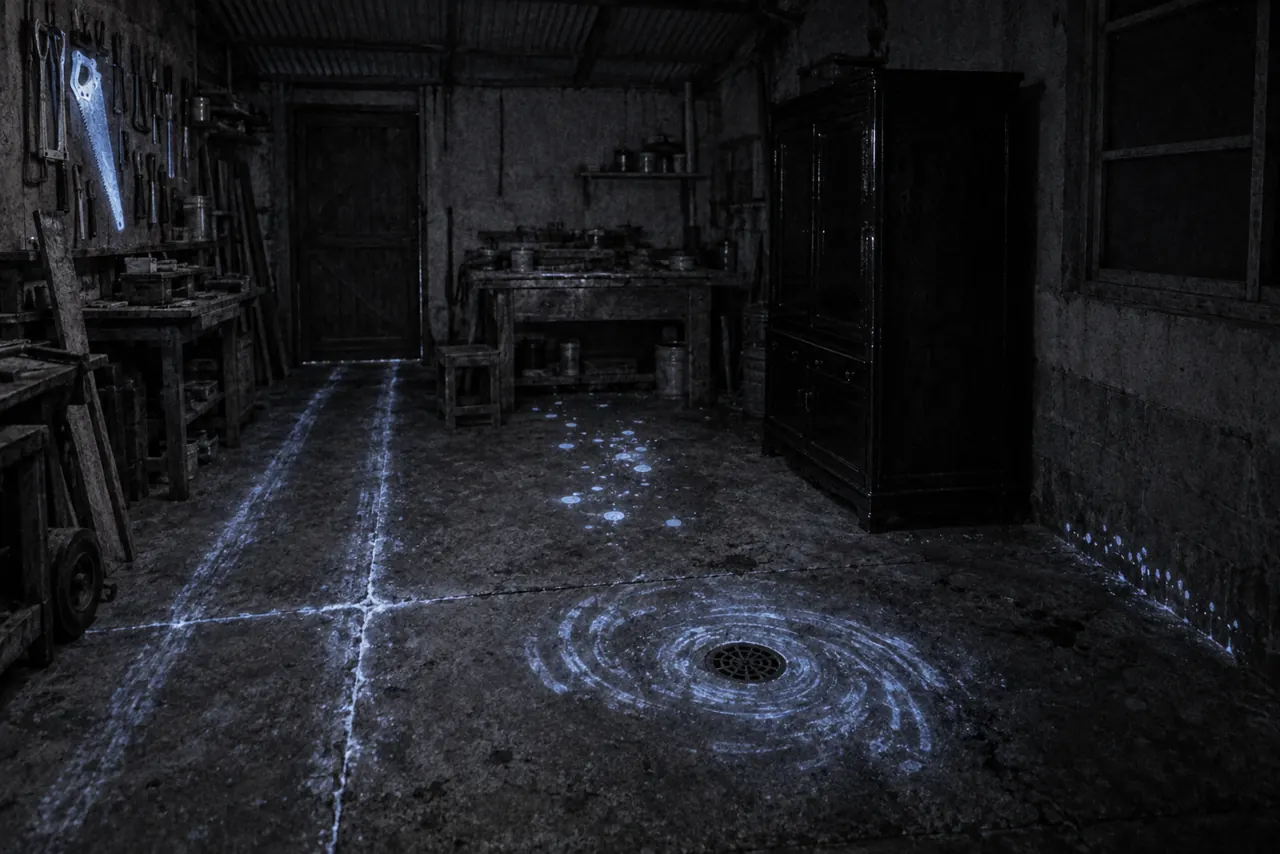
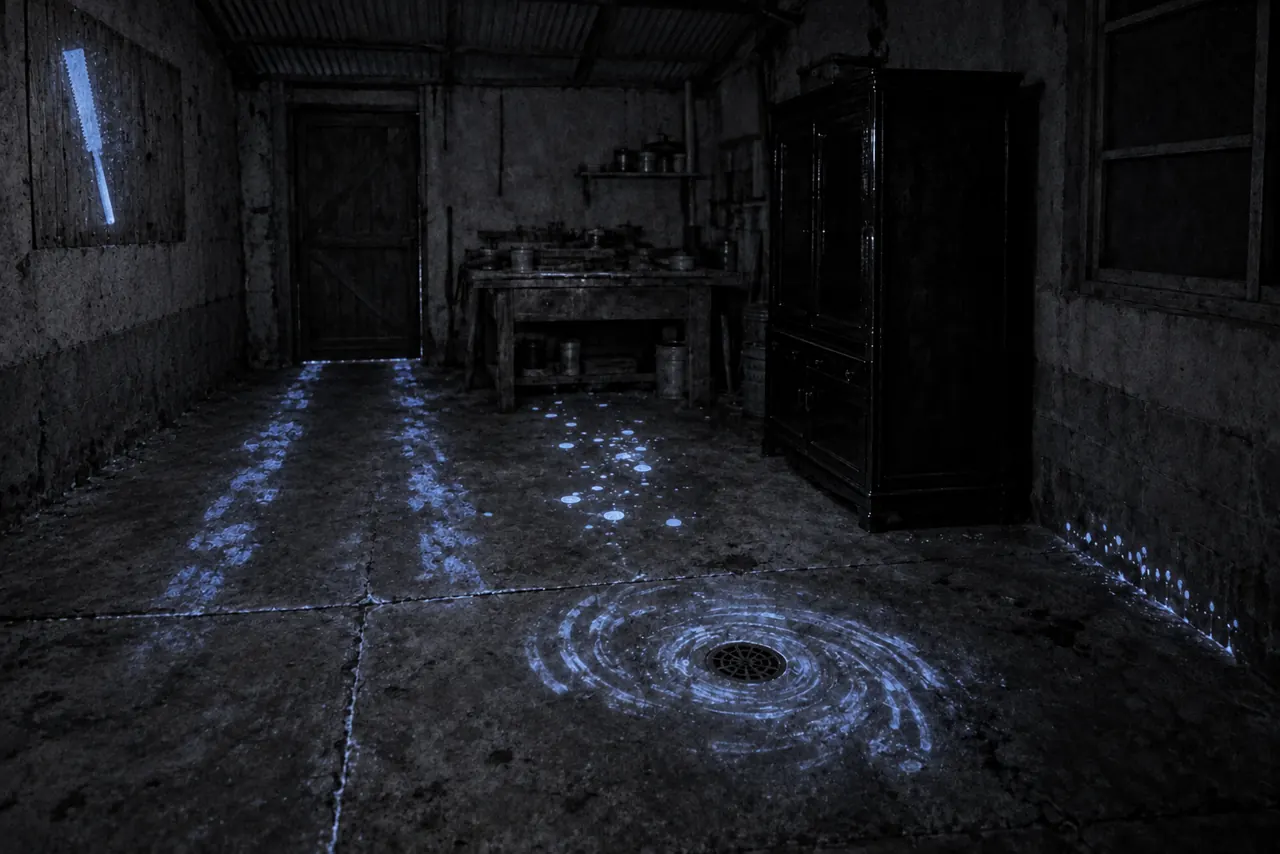
CASE 11 photos and captions now agree with the records: - Luminol photo:   - The tool board is empty, and the glowing imprint is the straight-handled double-edged saw the record describes. Before, it was a pistol-grip handsaw like the butcher's.   - The cart tracks are wide smudged treads that start

diff --git a/cases/c11-riverside-1986.js b/cases/c11-riverside-1986.js
@@ -107,28 +107,28 @@
               { id: 'sp_tag', x: 12, y: 85, r: 8, label: '자와 증거 번호표', body: ['증거 86-411-③-2. 봉투째 기록철 맨 뒤에 끼워져 있었다.'] },
             ] },
           { id: 'sc_print', title: '사진부 원판 — 청학 나전칠기 작업장', meta: '1986. 11. 24 촬영 · 은천일보 사진부 · 흑백 인화', need: ['k_cheonghak'], art: 'ph_print',
-            intro: ['신문에는 가운데만 잘려 실린 사진의 원판을 크게 뽑은 것. 흑백이라 색은 알 수 없다.'],
+            intro: ['같은 날 사진부가 찍은 다른 원판 (지면에는 실리지 않은 컷)을 크게 뽑은 것. 흑백이라 색은 알 수 없다.'],
             spots: [
               { id: 'sp_saw', x: 31, y: 7, r: 10.5, label: '공구걸이 — 톱 자리 둘', keys: ['k_hardware'], body: [{ p: '끌 걸이 오른쪽에 새 [[양날톱]] 한 자루가 가로로 걸려 있다. 손잡이 등나무 감개가 아직 하얗고 가격 딱지가 붙어 있다 — "[[대성철물]] 3,800". 바로 아래에 먼지가 덜 앉은 톱 모양 자리가 하나 더 있다.', f: 'f_newsaw' }] },
               { id: 'sp_calendar', x: 48, y: 14, r: 7, label: '벽 달력 (11월)', keys: ['k_truck'], body: ['14일 칸에 연필 동그라미. 15일 칸에 작은 글씨로 "4시 [[용달|k_truck]]". 지우개로 문지른 자국이 남았다.'] },
               { id: 'sp_cart', x: 6, y: 42, r: 7, label: '뒷문 앞 리어카', body: ['리어카 바닥에 새 판자를 댔다. 바퀴에는 진흙 한 점 없다.'] },
               { id: 'sp_shells', x: 50, y: 34, r: 6, label: '전복 껍데기 바구니', body: ['자개 원료. 얇게 갈아 낸 부스러기가 작업대 모서리에 희끗하게 반짝이며 쌓여 있다.'] },
               { id: 'sp_chest', x: 82, y: 30, r: 11, label: '만들다 만 자개장', body: ['검은 옻칠 위에 학 두 마리. 한 마리는 날개가 반쯤만 붙었다.'] },
-              { id: 'sp_sacks', x: 18, y: 72, r: 12, label: '톱밥 포대 더미', body: ['오동나무 톱밥을 담은 흰 쌀 포대 셋. 맨 위 포대의 솔기 꼬리표에 도장이 비친다 — "11.07-③".'] },
+              { id: 'sp_sacks', x: 18, y: 72, r: 12, label: '톱밥 포대 더미', body: ['오동나무 톱밥을 담은 흰 쌀 포대 셋. 앞쪽 포대의 솔기 꼬리표에 도장이 비친다 — "11.07-③".'] },
               { id: 'sp_drain', x: 48, y: 82, r: 7, label: '배수구 둘레 바닥', body: [{ p: '배수구를 가운데 두고 시멘트 바닥이 둥글게 하얗게 바래 있다. 다른 데는 옻과 먼지로 거뭇한데 그 자리만 양잿물로 박박 문지른 것처럼.', f: 'f_bleach' }] },
               { id: 'sp_bricks', x: 80, y: 68, r: 9, label: '아궁이 옆 벽돌 더미', body: ['벽돌을 반듯하게 쌓아 두었다. 맨 윗단 한쪽 귀퉁이가 네 장쯤 비었다.'] },
             ] },
           { id: 'sc_lumi', title: '재조사 암실 사진 — 루미놀 반응', meta: '1987. 3. 14 · 옛 청학 작업장 · 30초 노출 6매', need: ['!f_bleach'], art: 'ph_lumi',
             intro: ['불을 끄고 루미놀을 뿌린 뒤 30초 노출로 찍었다. 피가 스민 자리만 푸르게 떠오른다. 희미한 선은 손전등으로 덧그린 작업장 윤곽.'],
             spots: [
-              { id: 'sp_wipe', x: 57, y: 78, r: 10, label: '배수구 둘레 — 호 모양 결', body: ['배수구를 가운데 두고 둥근 결이 겹겹이 떴다. 걸레나 솔로 한 방향으로 쓸어 닦은 자국이다. 닦기 전에는 바닥 한가운데가 흥건했다.'] },
-              { id: 'sp_joint', x: 28.6, y: 71, r: 6, label: '시멘트 줄눈', body: ['줄눈을 따라 가는 선이 유난히 밝다. 틈에 스민 것은 닦아도 지워지지 않았다. 여기서 긁어 낸 시료가 감정에 갔다.'] },
-              { id: 'sp_drops', x: 50, y: 55, r: 7, label: '작업대 앞 바닥', body: ['동전만 한 둥근 점들. 가장자리가 고르다 — 1m가 안 되는 높이에서 곧게 떨어진 낙하흔.'] },
-              { id: 'sp_spatter', x: 86, y: 64, r: 7, label: '벽 아래쪽', body: ['바닥에서 30cm 높이까지 작고 길쭉한 점들이 한 방향으로 흩뿌려졌다. 바닥 가까이에서 같은 동작을 되풀이할 때 튄 비산흔.'] },
-              { id: 'sp_sawmark', x: 8, y: 12, r: 7, label: '공구걸이 판자', body: [{ p: '판자 위에 톱 모양이 통째로 떴다. 날 길이 약 27cm, 손잡이 쪽이 짙다. 피 묻은 톱을 한동안 거기 걸어 두었던 전이흔.', f: 'f_sawmark' }] },
-              { id: 'sp_cartmark', x: 14, y: 77, r: 7, label: '뒷문 앞', body: ['나란한 바퀴 자국 두 줄이 문턱까지 이어진다. 간격 약 1m — 리어카.'] },
-              { id: 'sp_cabinet', x: 72, y: 32, r: 8, label: '옻장', body: ['반응 없음. 옻과 아교만으로는 빛나지 않는다.'] },
-              { id: 'sp_window', x: 92, y: 16, r: 7, label: '창틀', body: ['반응 없음.'] },
+              { id: 'sp_wipe', x: 58, y: 77, r: 10.5, label: '배수구 둘레 — 호 모양 결', body: ['배수구를 가운데 두고 둥근 결이 겹겹이 떴다. 걸레나 솔로 한 방향으로 쓸어 닦은 자국이다. 닦기 전에는 바닥 한가운데가 흥건했다.'] },
+              { id: 'sp_joint', x: 27.5, y: 82, r: 6, label: '시멘트 줄눈', body: ['줄눈을 따라 가는 선이 유난히 밝다. 틈에 스민 것은 닦아도 지워지지 않았다. 여기서 긁어 낸 시료가 감정에 갔다.'] },
+              { id: 'sp_drops', x: 47.5, y: 54, r: 7, label: '작업대 앞 바닥', body: ['동전만 한 둥근 점들. 가장자리가 고르다 — 1m가 안 되는 높이에서 곧게 떨어진 낙하흔.'] },
+              { id: 'sp_spatter', x: 89.5, y: 67.5, r: 7, label: '벽 아래쪽', body: ['바닥에서 30cm 높이까지 작고 길쭉한 점들이 한 방향으로 흩뿌려졌다. 바닥 가까이에서 같은 동작을 되풀이할 때 튄 비산흔.'] },
+              { id: 'sp_sawmark', x: 6.8, y: 16, r: 8, label: '공구걸이 판자', body: [{ p: '판자 위에 톱 모양이 통째로 떴다. 날 길이 약 27cm, 손잡이 쪽이 짙다. 피 묻은 톱을 한동안 거기 걸어 두었던 전이흔.', f: 'f_sawmark' }] },
+              { id: 'sp_cartmark', x: 26, y: 56, r: 9, label: '뒷문 앞', body: ['나란한 바퀴 자국 두 줄이 문턱까지 이어진다. 간격 약 1m — 리어카.'] },
+              { id: 'sp_cabinet', x: 70, y: 34.5, r: 9, label: '옻장', body: ['반응 없음. 옻과 아교만으로는 빛나지 않는다.'] },
+              { id: 'sp_window', x: 92.5, y: 18, r: 7, label: '창틀', body: ['반응 없음.'] },
             ] },
         ] },
     ],
@@ -228,7 +228,7 @@
         '11/29 우 석방. 증거 불충분.',
       ] },
       d_woo_check: { src: 'rec', find: ['k_useong'], blood: 'heavy', title: '검증 조서 — 우성정육점', kicker: '은천서 86-강-411 · 14', meta: '1986년 11월 18일 19:30 ~ 22:10 · 중앙시장 12호 · 입회 우만복의 처', body: [
-        { img: 'butcher_floor', cap: '검증 뒤 가게 안 — 톱밥 깔린 바닥, 도마, 빈 갈고리.' },
+        { img: 'butcher_floor', cap: '검증 중 가게 안 — 압수 꼬리표를 단 뼈톱, 톱밥 깔린 바닥, 도마, 빈 갈고리.' },
         '가게 문을 닫고 불을 끈 뒤 바닥·도마·배수구·벽에 [[루미놀]] 용액을 뿌린바, 바닥 거의 전면과 도마 둘레, 배수구에서 강한 푸른빛 반응이 나타남.',
         { img: 'butcher_lumi', cap: '암실 사진 — 불을 끈 가게 바닥 (30초 노출). 바닥 거의 전면이 푸르게 떴다.' },
         { list: ['바닥: 반응 전면 · 톱밥 아래까지 스밈', '도마·칼꽂이: 강한 반응', '배수구: 강한 반응', '냉장고 문: 손 닿는 높이에 번진 반응'] },
@@ -260,7 +260,7 @@
         '넓적다리뼈·위팔뼈 절단면의 [[톱 자국]]은 간격 2.5~3mm, 켠 자리 폭 1.6mm 안팎으로 날어김이 넓다. 자국이 활처럼 휘며 한쪽으로 당겨진 결을 보인다.',
         '관절을 분리한 흔적은 없다. 뼈 하나에 톱을 새로 댄 시작 자국이 서너 개씩 겹친다.',
         { h: '2. 포대 속 톱밥' },
-        { img: 'nfs_nacre', cap: '포대 속 톱밥 (실체현미경, 20배).' },
+        { img: 'nfs_nacre', cap: '포대 속 톱밥 (실체현미경 아래).' },
         { p: '네 포대의 톱밥은 모두 활엽수, 오동나무류다. 미송·낙엽송 같은 침엽수 톱밥은 섞여 있지 않다. 톱밥 사이에 무지갯빛으로 반짝이는 얇은 박편이 많다 — 전복·조개 껍데기의 [[진주층]] 박편으로, 갈아 낸 가공 부스러기로 보인다. 옻 성분이 조금 검출된다.', f: 'f_nacre' },
         { h: '3. 포대' },
         '폴리프로필렌 직조 20kg 쌀 포대 4장. 겉 인쇄는 물과 마찰로 거의 벗겨졌다. 두 장의 안쪽 솔기 꼬리표에서 [[도정 스탬프]]를 판독함 — "11.07-③". 정미소의 도정 일자와 도정기 번호로 보인다.',
@@ -344,7 +344,7 @@
         { sign: '진술인 양미숙 (무인)' },
       ] },
       d_ledger: { src: 'rec', find: ['k_ledger'], skin: 'ledger', title: '대원상사 원장 (11월분 사본)', kicker: '은천서 86-강-411 · 참고 3', meta: '1986년 11월 18일 사본 · 원본은 대원상사 금고', body: [
-        { img: 'ledger_page', cap: '원장 펼친 면. 이름 칸은 비어 있다.' },
+        { img: 'ledger_page', cap: '원장 펼친 면. 이름 없이 번호와 숫자만 적혀 있다.' },
         { rows: [
           ['시-14', '정육', '80만', '월 7부', '이자 석 달 밀림 · "독촉"', '편'],
           ['시-22', '포목', '30만', '일수 60일', '정상', '편'],
@@ -740,7 +740,7 @@
         svg: `<svg viewBox="0 0 200 150"><rect width="200" height="150" fill="#c9c6bb"/><path d="M20 30 h70 l14 12 v80 h-98 v-80z" fill="#28324a"/><path d="M40 30 l12 20 l12 -20" fill="none" stroke="#1a2030" stroke-width="3"/><path d="M26 34 q4 30 2 58 l8 2 q2 -30 -2 -60z" fill="${BL}" opacity=".8"/><path d="M40 100 q20 6 40 0 l2 14 q-22 6 -44 0z" fill="${BL}" opacity=".45"/><rect x="118" y="36" width="30" height="20" fill="#d9d2bc" stroke="#8a8272"/><circle cx="130" cy="78" r="7" fill="#b89a52"/><circle cx="148" cy="80" r="7" fill="#b89a52"/><circle cx="168" cy="72" r="5" fill="#9a9a92"/><circle cx="178" cy="84" r="5" fill="#9a9a92"/><rect x="118" y="100" width="40" height="14" fill="#efece2"/><rect x="118" y="126" width="64" height="6" fill="#c9b98d"/></svg>`,
         prompt: 'Top-down black-and-white evidence photograph under flat flash: a wet navy quilted vinyl jacket laid face-down on grey paper so its back panel faces the camera (no zipper visible), dark dried stains running down its left collar and shoulder and a wide smeared stain across the lower back with pale sawdust and tiny glittering flecks of mother-of-pearl dust stuck in it, beside it in a neat row a small soggy paper matchbox, two brass bus tokens, a few coins and a folded handkerchief, a numbered evidence card and a ruler, grain.',
         must: '잠바 등판이 위로 (지퍼 안 보이게). 왼쪽 깃·어깨의 흐름흔, 등판 아래의 넓은 문질린 혈흔에 흰 톱밥과 반짝이는 가루' },
-      butcher_floor: { use: '우성정육점 검증 뒤 가게 안 — 톱밥 바닥과 도마', ratio: '4:3', sensitive: true,
+      butcher_floor: { use: '우성정육점 검증 중 가게 안 — 압수 꼬리표를 단 뼈톱, 톱밥 바닥과 도마', ratio: '4:3', sensitive: true,
         svg: `<svg viewBox="0 0 200 150"><rect width="200" height="150" fill="#3e3c37"/><rect y="96" width="200" height="54" fill="#8f7c5c"/><g fill="#a48f69">${A(40, i => `<circle cx="${(i * 37) % 200}" cy="${100 + (i * 13) % 48}" r="1.4"/>`)}</g><rect x="20" y="24" width="160" height="4" fill="#777"/><g stroke="#999" stroke-width="2" fill="none">${A(7, i => `<path d="M${34 + i * 20} 28 v10 q0 6 5 6"/>`)}</g><rect x="80" y="84" width="48" height="30" fill="#6b5236"/><ellipse cx="104" cy="84" rx="24" ry="6" fill="#7b6040"/><path d="M92 82 q8 -3 14 2 q6 4 -2 6 q-10 0 -12 -8z" fill="${BL}" opacity=".85"/><path d="M150 40 h30 v8 h-30z" fill="#bdbdb6"/><rect x="176" y="38" width="10" height="12" fill="#5a4630"/><path d="M8 110 q12 -10 30 -4 q6 12 -8 16 q-16 2 -22 -12z" fill="#e2ddcf"/></svg>`,
         prompt: 'Night flash photograph inside a tiny 1980s Korean market butcher shop after a police search, no people: a sawdust-covered cement floor, a scarred round wooden chopping block with dark dried stains, a row of empty steel meat hooks on a rail, a hand bone saw hanging on the tiled wall, a pile of empty white rice sacks in the corner, small paper evidence tags on string, harsh flash, grain.' },
       gauge: { use: '은천 수위관측소 앞 수위표와 유속 측정', ratio: '4:3',

diff --git a/i18n/ru/c11.js b/i18n/ru/c11.js
@@ -114,7 +114,7 @@ MG.I18N.put("ru", "c11", {
 "29svwdzf7sw": "Улика 86-411-③-2. Лежала в конверте в самом конце подшивки.",
 "yoxv24mjs1": "Негатив фотоотдела — мастерская «Чхонхак»",
 "25i2ohhj3cv": "Снято 24.11.1986 · фотоотдел «Ынчхон ильбо» · чёрно-белый отпечаток",
-"y29r5l4z8y": "Крупный отпечаток с негатива: в газете снимок напечатали обрезанным, одну середину. Он чёрно-белый, цвета не разобрать.",
+"1irz9wqmmv4": "Крупный отпечаток с другого негатива, снятого фотоотделом в тот же день (кадр в газету не попал). Он чёрно-белый, цвета не разобрать.",
 "eylhvinewu": "Доска для инструментов — два места для пил",
 "1wzeni3wddi": "Справа от стамесок поперёк висит новая [[двусторонняя пила|k_saw]]. Ротанговая обмотка на рукояти ещё белая, приклеен ценник: «[[Тэсон|k_hardware]] 3 800». Чуть ниже — ещё одно место в форме пилы, где пыли осело меньше.",
 "1eg7ge9bnp5": "Календарь на стене (ноябрь)",
@@ -126,7 +126,7 @@ MG.I18N.put("ru", "c11", {
 "aioo23rdo9": "Недоделанный перламутровый шкаф",
 "ig4dbwu1x8": "На чёрном лаке — два журавля. У одного крыло выложено только наполовину.",
 "19bsf9aq1j4": "Груда мешков с опилками",
-"td9noywbi6": "Три белых рисовых мешка с опилками павловнии. На ярлыке в шве верхнего мешка просвечивает штамп: «11.07-③».",
+"qgxqg4jn9w": "Три белых рисовых мешка с опилками павловнии. На ярлыке в шве переднего мешка просвечивает штамп: «11.07-③».",
 "1911d4zj1v0": "Пол вокруг стока",
 "1iyuooxdxx0": "Вокруг стока цементный пол выцвел белым кругом. Везде он тёмный от лака и пыли, а это место будто яростно оттирали щёлоком.",
 "2flxafsqbt2": "Кирпичи у топки",
@@ -310,7 +310,7 @@ MG.I18N.put("ru", "c11", {
 "1h5fqxyt2m7": "Протокол осмотра — мясная лавка «Усон»",
 "1o5n0dvbyrb": "Участок Ынчхон, 86-ТП-411 · 14",
 "1jlhxthdltn": "18 ноября 1986 г., 19:30–22:10 · Центральный рынок, место № 12 · в присутствии жены У Манбока",
-"1aio73lxy5m": "Лавка после осмотра: пол в опилках, колода, пустые крюки.",
+"2elorejt3cy": "Лавка во время осмотра: пила для костей с биркой изъятия, пол в опилках, колода, пустые крюки.",
 "18uzee5n74w": "Закрыв лавку и погасив свет, раствор [[люминола|k_luminol]] распылили на пол, колоду, сток и стены; почти по всему полу, вокруг колоды и в стоке появилось сильное голубое свечение.",
 "29rjtpyj1s7": "Снимок в темноте — пол лавки при выключенном свете (выдержка 30 с). Голубым светится почти весь пол.",
 "2060o7dp01o": "Пол: реакция по всей площади · впиталось и под опилки",
@@ -362,7 +362,7 @@ MG.I18N.put("ru", "c11", {
 "bjvk6jl74b": "[[Следы пилы|k_cutmark]] на срезах бедренных и плечевых костей: шаг 2,5–3 мм, ширина пропила около 1,6 мм — развод зубьев широкий. Следы изогнуты дугой, бороздки стянуты в одну сторону.",
 "2fk2bkntkhb": "Следов разъединения по суставам нет. На каждой кости — по три-четыре наложившихся начальных запила.",
 "1i5lkb5oph2": "2. Опилки из мешков",
-"i6bk8uv0pl": "Опилки из мешков (стереомикроскоп, ×20).",
+"16d9ih62x91": "Опилки из мешков (под стереомикроскопом).",
 "1jfm2f3ls48": "Опилки во всех четырёх мешках — лиственной породы, павловния. Опилок хвойных пород, таких как орегонская сосна или лиственница, нет. Среди опилок много тонких чешуек с радужным блеском — это чешуйки [[перламутрового слоя|k_najeon]] раковин морского ушка и других моллюсков, по-видимому отходы шлифовки. Обнаружено небольшое количество лака.",
 "1mzhyv11jfm": "3. Мешки",
 "1llopxkcau2": "Тканые полипропиленовые мешки для риса на 20 кг — 4 шт. Надписи снаружи почти стёрты водой и трением. На ярлыках во внутренних швах двух мешков прочитан [[штамп мельницы|k_stamp]] — «11.07-③». По-видимому, дата шлифовки (месяц.число) на рисовой мельнице и номер машины.",
@@ -485,7 +485,7 @@ MG.I18N.put("ru", "c11", {
 "1fhsgd6strj": "Главная книга «Тэвон» (копия за ноябрь)",
 "19yntoubkn4": "Участок Ынчхон, 86-ТП-411 · прил. 3",
 "23svkone40": "Копия от 18 ноября 1986 г. · оригинал — в сейфе конторы «Тэвон»",
-"22zfmx0hozk": "Разворот главной книги. Графа для имён пустая.",
+"1eatyacqoz5": "Разворот главной книги. Ни одного имени — только номера и цифры.",
 "1otfomuoqyo": "Рын-14",
 "nklspxyv1j": "мясо",
 "119sl5kzom4": "800 тыс.",
@@ -958,7 +958,7 @@ MG.I18N.put("ru", "c11", {
 "k7x5hfidxx": "Снимок криминалистов — четвёртый мешок с кирпичами",
 "1ibv7jv37ls": "Секционная Ынчхонской больницы — останки под белой простынёй",
 "qbc6x5fix7": "Фото улик — куртка и содержимое карманов",
-"196nvbe7y1w": "Мясная лавка «Усон» после осмотра — пол в опилках и колода",
+"kzryj7qbe8": "Мясная лавка «Усон» во время осмотра — пила для костей с биркой изъятия, пол в опилках и колода",
 "1robn234k39": "Водомерная рейка у гидропоста Ынчхон и замер скорости течения",
 "7us0ukku8l": "Разворот главной книги «Тэвон» (почерк размыт)",
 "17tp9nhttar": "Разворот главной книги «Тэвон»",

diff --git a/i18n/de/c11.js b/i18n/de/c11.js
@@ -114,7 +114,7 @@ MG.I18N.put("de", "c11", {
 "29svwdzf7sw": "Beweisstück 86-411-③-2. Lag samt Umschlag ganz hinten in der Akte.",
 "yoxv24mjs1": "Originalnegativ der Fotoredaktion — Perlmuttwerkstatt Cheonghak",
 "25i2ohhj3cv": "Aufgenommen am 24. November 1986 · Fotoredaktion der Euncheon Ilbo · Schwarzweißabzug",
-"y29r5l4z8y": "Großer Abzug vom Negativ eines Fotos, das in der Zeitung nur als Ausschnitt aus der Mitte erschien. Schwarzweiß, Farben sind nicht zu erkennen.",
+"1irz9wqmmv4": "Großer Abzug von einem anderen Negativ, das die Fotoredaktion am selben Tag aufnahm (ein Bild, das nie gedruckt wurde). Schwarzweiß, Farben sind nicht zu erkennen.",
 "eylhvinewu": "Werkzeugbrett — zwei Plätze für Sägen",
 "1wzeni3wddi": "Rechts neben den Stemmeisen hängt quer eine neue [[Zugsäge|k_saw]]. Die Rattanwicklung am Griff ist noch weiß, ein Preisschild klebt daran — „[[Eisenwaren Daeseong|k_hardware]] 3.800“. Direkt darunter noch ein sägenförmiger Umriss, auf dem weniger Staub liegt.",
 "1eg7ge9bnp5": "Wandkalender (November)",
@@ -126,7 +126,7 @@ MG.I18N.put("de", "c11", {
 "aioo23rdo9": "Unfertiger Perlmuttschrank",
 "ig4dbwu1x8": "Auf schwarzem Lack zwei Kraniche. Bei einem ist der Flügel erst zur Hälfte eingelegt.",
 "19bsf9aq1j4": "Stapel Sägemehlsäcke",
-"td9noywbi6": "Drei weiße Reissäcke mit Paulownia-Sägemehl. Am Nahtetikett des obersten schimmert ein Stempel durch — „11.07-③“.",
+"qgxqg4jn9w": "Drei weiße Reissäcke mit Paulownia-Sägemehl. Am Nahtetikett des vorderen schimmert ein Stempel durch — „11.07-③“.",
 "1911d4zj1v0": "Boden um den Abfluss",
 "1iyuooxdxx0": "Rund um den Abfluss ist der Zementboden kreisförmig weiß ausgebleicht. Überall sonst ist er von Lack und Staub dunkel, nur diese Stelle sieht aus, als hätte man sie mit Lauge geschrubbt.",
 "2flxafsqbt2": "Ziegelstapel neben dem Feuerloch",
@@ -310,7 +310,7 @@ MG.I18N.put("de", "c11", {
 "1h5fqxyt2m7": "Durchsuchungsprotokoll — Metzgerei Useong",
 "1o5n0dvbyrb": "Revier Euncheon 86-Gewalt-411 · 14",
 "1jlhxthdltn": "18. November 1986, 19:30–22:10 · Zentralmarkt Nr. 12 · anwesend: Ehefrau von Woo Man-bok",
-"1aio73lxy5m": "Der Laden nach der Durchsuchung — Sägemehl auf dem Boden, Hackklotz, leere Fleischhaken.",
+"2elorejt3cy": "Der Laden während der Durchsuchung — die Knochensäge mit Beschlagnahmeschild, Sägemehl auf dem Boden, Hackklotz, leere Fleischhaken.",
 "18uzee5n74w": "Nachdem der Laden geschlossen und das Licht gelöscht war, wurde [[Luminol|k_luminol]]-Lösung auf Boden, Hackklotz, Abfluss und Wände gesprüht; auf fast dem ganzen Boden, rund um den Hackklotz und im Abfluss zeigte sich eine starke blaue Reaktion.",
 "29rjtpyj1s7": "Dunkelkammerfoto — der Ladenboden bei gelöschtem Licht (30 Sekunden belichtet). Fast der ganze Boden leuchtet blau.",
 "2060o7dp01o": "Boden: Reaktion auf ganzer Fläche · bis unter das Sägemehl eingezogen",
@@ -362,7 +362,7 @@ MG.I18N.put("de", "c11", {
 "bjvk6jl74b": "Die [[Sägespuren|k_cutmark]] an den Schnittflächen von Oberschenkel- und Oberarmknochen weisen einen Abstand von 2,5–3 mm und eine Schnittfugenbreite um 1,6 mm auf; die Schränkung ist weit. Die Spuren biegen sich bogenförmig und zeigen einen zu einer Seite gezogenen Verlauf.",
 "2fk2bkntkhb": "Spuren einer Gelenkauslösung finden sich nicht. An jedem Knochen überlagern sich drei bis vier Ansatzspuren, an denen die Säge neu angesetzt wurde.",
 "1i5lkb5oph2": "2. Sägemehl in den Säcken",
-"i6bk8uv0pl": "Sägemehl aus den Säcken (Stereomikroskop, 20-fach).",
+"16d9ih62x91": "Sägemehl aus den Säcken (unter dem Stereomikroskop).",
 "1jfm2f3ls48": "Das Sägemehl in allen vier Säcken stammt von Laubholz, und zwar von Paulownia. Nadelholzsägemehl wie Douglasie oder Lärche ist nicht beigemischt. Zwischen dem Sägemehl zahlreiche dünne, regenbogenfarben schimmernde Plättchen — Plättchen aus der [[Perlmuttschicht|k_najeon]] von Abalone- und Muschelschalen, offenbar Schleifabfall aus der Verarbeitung. Geringe Mengen von Lackbestandteilen nachgewiesen.",
 "1mzhyv11jfm": "3. Säcke",
 "1llopxkcau2": "4 gewebte Reissäcke à 20 kg aus Polypropylen. Der Aufdruck ist durch Wasser und Reibung fast ganz abgerieben. Auf den inneren Nahtetiketten von zweien wurde der [[Mühlenstempel|k_stamp]] gelesen — „11.07-③“. Vermutlich Mahldatum (Monat.Tag) und Nummer der Schälmaschine einer Reismühle.",
@@ -485,7 +485,7 @@ MG.I18N.put("de", "c11", {
 "1fhsgd6strj": "Daewon-Hauptbuch (Abschrift, November)",
 "19yntoubkn4": "Revier Euncheon 86-Gewalt-411 · Anlage 3",
 "23svkone40": "Abschrift vom 18. November 1986 · Original im Tresor von Daewon Handel",
-"22zfmx0hozk": "Aufgeschlagene Seite des Hauptbuchs. Die Namensspalte ist leer.",
+"1eatyacqoz5": "Aufgeschlagene Seite des Hauptbuchs. Keine Namen, nur Nummern und Zahlen.",
 "1otfomuoqyo": "Z-14",
 "nklspxyv1j": "Fleisch",
 "119sl5kzom4": "800.000",
@@ -958,7 +958,7 @@ MG.I18N.put("de", "c11", {
 "k7x5hfidxx": "Foto der Spurensicherung — der vierte Sack mit den Ziegeln",
 "1ibv7jv37ls": "Obduktionssaal des Klinikums Euncheon — die geborgene Leiche unter weißen Tüchern",
 "qbc6x5fix7": "Asservatenfoto — die Jacke und der Inhalt ihrer Taschen",
-"196nvbe7y1w": "Metzgerei Useong nach der Durchsuchung — Sägemehlboden und Hackklotz",
+"kzryj7qbe8": "Metzgerei Useong während der Durchsuchung — Knochensäge mit Beschlagnahmeschild, Sägemehlboden und Hackklotz",
 "1robn234k39": "Pegellatte vor der Pegelstation Euncheon und Messung der Fließgeschwindigkeit",
 "7us0ukku8l": "Aufgeschlagene Seite des Daewon-Hauptbuchs (Schrift unscharf)",
 "17tp9nhttar": "Aufgeschlagene Seite des Daewon-Hauptbuchs",

diff --git a/i18n/ja/c11.js b/i18n/ja/c11.js
@@ -114,7 +114,7 @@ MG.I18N.put("ja", "c11", {
 "29svwdzf7sw": "証拠 86-411-③-2。封筒ごと記録綴りの一番後ろに挟まっていた。",
 "yoxv24mjs1": "写真部の原板 — 青鶴螺鈿漆器の作業場",
 "25i2ohhj3cv": "1986. 11. 24 撮影 · ウンチョン日報写真部 · 白黒焼き付け",
-"y29r5l4z8y": "新聞には真ん中だけ切り取って載った写真の原板を、大きく焼いたもの。白黒なので色は分からない。",
+"1irz9wqmmv4": "同じ日に写真部が撮った別の原板（紙面には載らなかったカット）を、大きく焼いたもの。白黒なので色は分からない。",
 "eylhvinewu": "工具掛け — 鋸の場所が二つ",
 "1wzeni3wddi": "鑿掛けの右に、新しい[[両刃鋸|k_saw]]が一本、横向きに掛かっている。柄の籐巻きはまだ白く、値札がついている —「[[大成金物|k_hardware]] 3,800」。そのすぐ下に、埃があまり積もっていない鋸の形の跡がもう一つある。",
 "1eg7ge9bnp5": "壁のカレンダー（11月）",
@@ -126,7 +126,7 @@ MG.I18N.put("ja", "c11", {
 "aioo23rdo9": "作りかけの螺鈿箪笥",
 "ig4dbwu1x8": "黒い漆の上に鶴が二羽。一羽は翼が半分しか貼られていない。",
 "19bsf9aq1j4": "おがくずの袋の山",
-"td9noywbi6": "桐のおがくずを詰めた白い米袋が三つ。一番上の袋の縫い目の札に判が透けて見える —「11.07-③」。",
+"qgxqg4jn9w": "桐のおがくずを詰めた白い米袋が三つ。手前の袋の縫い目の札に判が透けて見える —「11.07-③」。",
 "1911d4zj1v0": "排水口のまわりの床",
 "1iyuooxdxx0": "排水口を中心に、セメントの床が丸く白く褪せている。ほかは漆と埃で黒ずんでいるのに、そこだけ苛性ソーダでごしごし擦ったように。",
 "2flxafsqbt2": "かまど脇のレンガの山",
@@ -310,7 +310,7 @@ MG.I18N.put("ja", "c11", {
 "1h5fqxyt2m7": "検証調書 — ウソン精肉店",
 "1o5n0dvbyrb": "ウンチョン署 86-強-411 · 14",
 "1jlhxthdltn": "1986年11月18日 19:30 ～ 22:10 · 中央市場12号 · 立会人 ウ・マンボクの妻",
-"1aio73lxy5m": "検証後の店内 — おがくずを敷いた床、まな板、空の鉤。",
+"2elorejt3cy": "検証中の店内 — 押収札の付いた骨切り鋸、おがくずを敷いた床、まな板、空の鉤。",
 "18uzee5n74w": "店の戸を閉めて明かりを消したのち、床・まな板・排水口・壁に[[ルミノール|k_luminol]]溶液を噴霧したところ、床のほぼ全面とまな板の周囲、排水口に強い青白い反応が現れた。",
 "29rjtpyj1s7": "暗室写真 — 明かりを消した店の床（30秒露光）。床のほぼ全面が青く浮かんだ。",
 "2060o7dp01o": "床：全面に反応 · おがくずの下までしみ込んでいる",
@@ -362,7 +362,7 @@ MG.I18N.put("ja", "c11", {
 "bjvk6jl74b": "大腿骨・上腕骨の切断面の[[鋸の痕|k_cutmark]]は、間隔2.5～3mm、挽き幅1.6mm前後で、アサリが広い。痕は弓なりに曲がり、一方に引っ張られた筋目を示す。",
 "2fk2bkntkhb": "関節を外した痕跡はない。一本の骨に、鋸を新たに当てた挽き始めの痕が三、四か所ずつ重なる。",
 "1i5lkb5oph2": "2. 袋の中のおがくず",
-"i6bk8uv0pl": "袋の中のおがくず（実体顕微鏡、20倍）。",
+"16d9ih62x91": "袋の中のおがくず（実体顕微鏡の下で）。",
 "1jfm2f3ls48": "四つの袋のおがくずは、いずれも広葉樹、桐の類である。米松・カラマツのような針葉樹のおがくずは混じっていない。おがくずの間に、虹色にきらめく薄い剥片が多い — アワビ・貝殻の[[真珠層|k_najeon]]の剥片で、削った加工屑とみられる。漆の成分がわずかに検出される。",
 "1mzhyv11jfm": "3. 袋",
 "1llopxkcau2": "ポリプロピレン織りの20kg入り米袋4枚。表の印刷は水と摩擦でほとんど剥げている。2枚の内側の縫い目の札から[[精米スタンプ|k_stamp]]を判読 —「11.07-③」。精米所の精米日と精米機の番号とみられる。",
@@ -485,7 +485,7 @@ MG.I18N.put("ja", "c11", {
 "1fhsgd6strj": "大元商事 元帳（11月分の写し）",
 "19yntoubkn4": "ウンチョン署 86-強-411 · 参考3",
 "23svkone40": "1986年11月18日 写し · 原本は大元商事の金庫",
-"22zfmx0hozk": "元帳を開いたところ。名前の欄は空いている。",
+"1eatyacqoz5": "元帳を開いたところ。名前はなく、番号と数字だけが書かれている。",
 "1otfomuoqyo": "市-14",
 "nklspxyv1j": "精肉",
 "119sl5kzom4": "80万",
@@ -958,7 +958,7 @@ MG.I18N.put("ja", "c11", {
 "k7x5hfidxx": "鑑識写真 — レンガのついた四つ目の袋",
 "1ibv7jv37ls": "ウンチョン医療院の解剖室 — 白い布の下に収容された遺体",
 "qbc6x5fix7": "証拠物写真 — ジャンパーとポケットの中の物",
-"196nvbe7y1w": "ウソン精肉店の検証後の店内 — おがくずの床とまな板",
+"kzryj7qbe8": "ウソン精肉店の検証中の店内 — 押収札の付いた骨切り鋸、おがくずの床とまな板",
 "1robn234k39": "ウンチョン水位観測所前の量水標と流速測定",
 "7us0ukku8l": "大元商事の元帳を開いたところ（字はぼやけている）",
 "17tp9nhttar": "大元商事の元帳を開いたところ",

diff --git a/i18n/en/c11.js b/i18n/en/c11.js
@@ -114,7 +114,7 @@ MG.I18N.put("en", "c11", {
 "29svwdzf7sw": "Evidence 86-411-③-2. Found tucked, envelope and all, at the very back of the file.",
 "yoxv24mjs1": "Photo desk negative — Cheonghak Lacquerware workshop",
 "25i2ohhj3cv": "Shot Nov 24, 1986 · Euncheon Daily photo desk · black-and-white print",
-"y29r5l4z8y": "A large print from the negative of a photo the paper ran cropped to its middle. It's black and white, so colors can't be made out.",
+"1irz9wqmmv4": "A large print from another negative the photo desk shot that day (a frame that never ran in the paper). It's black and white, so colors can't be made out.",
 "eylhvinewu": "Tool rack — two places for saws",
 "1wzeni3wddi": "To the right of the chisel rack, a new [[double-edged saw|k_saw]] hangs crosswise. The rattan wrap on the handle is still white and the price tag is still on — “[[Daeseong Hardware|k_hardware]] 3,800.” Just below it is another saw-shaped patch with less dust on it.",
 "1eg7ge9bnp5": "Wall calendar (November)",
@@ -126,7 +126,7 @@ MG.I18N.put("en", "c11", {
 "aioo23rdo9": "Unfinished inlaid cabinet",
 "ig4dbwu1x8": "Two cranes on black lacquer. One has only half its wing set in.",
 "19bsf9aq1j4": "Pile of sawdust sacks",
-"td9noywbi6": "Three white rice sacks holding paulownia sawdust. A stamp shows through on the seam tag of the top sack — “11.07-③.”",
+"qgxqg4jn9w": "Three white rice sacks holding paulownia sawdust. A stamp shows through on the seam tag of the front sack — “11.07-③.”",
 "1911d4zj1v0": "Floor around the drain",
 "1iyuooxdxx0": "The cement floor around the drain has faded to a white circle. Everywhere else is dark with lacquer and dust; only that spot looks scrubbed hard with lye.",
 "2flxafsqbt2": "Bricks beside the firebox",
@@ -310,7 +310,7 @@ MG.I18N.put("en", "c11", {
 "1h5fqxyt2m7": "Inspection Record — Woosung Butcher Shop",
 "1o5n0dvbyrb": "Euncheon Station 86-VC-411 · 14",
 "1jlhxthdltn": "November 18, 1986, 19:30–22:10 · No. 12, Central Market · witnessed by Woo Man-bok's wife",
-"1aio73lxy5m": "Inside the shop after the inspection — sawdust-covered floor, chopping block, empty hooks.",
+"2elorejt3cy": "Inside the shop during the inspection — the bone saw with a seizure tag, sawdust-covered floor, chopping block, empty hooks.",
 "18uzee5n74w": "With the shop door closed and the lights off, [[luminol|k_luminol]] solution was sprayed on the floor, chopping block, drain and walls; a strong blue glow appeared over almost the entire floor, around the chopping block and in the drain.",
 "29rjtpyj1s7": "Darkroom photo — the shop floor with the lights off (30-second exposure). Almost the entire floor glowed blue.",
 "2060o7dp01o": "Floor: reaction throughout · soaked in beneath the sawdust",
@@ -362,7 +362,7 @@ MG.I18N.put("en", "c11", {
 "bjvk6jl74b": "The [[saw marks|k_cutmark]] on the femur and humerus cut surfaces are 2.5–3 mm apart, and the kerf is about 1.6 mm wide, so the teeth have a wide set. The marks bow like an arc, with striations dragged to one side.",
 "2fk2bkntkhb": "No sign of the joints being separated. Three or four overlapping start marks on each bone, where the saw was set again.",
 "1i5lkb5oph2": "2. Sawdust in the sacks",
-"i6bk8uv0pl": "Sawdust from the sacks (stereomicroscope, 20×).",
+"16d9ih62x91": "Sawdust from the sacks (under the stereomicroscope).",
 "1jfm2f3ls48": "The sawdust in all four sacks is hardwood, of the paulownia type. No softwood sawdust such as Douglas fir or larch is mixed in. Among the sawdust are many thin flakes glinting with iridescence — flakes of [[nacre|k_najeon]] from abalone and clam shells, apparently grinding waste from shell work. Traces of lacquer detected.",
 "1mzhyv11jfm": "3. Sacks",
 "1llopxkcau2": "Four woven polypropylene 20 kg rice sacks. The outer printing is almost entirely worn off by water and friction. A [[mill stamp|k_stamp]] was read on the inner seam tags of two of them — “11.07-③.” Apparently a rice mill's milling date and machine number.",
@@ -485,7 +485,7 @@ MG.I18N.put("en", "c11", {
 "1fhsgd6strj": "Daewon Trading Ledger (Copy, November)",
 "19yntoubkn4": "Euncheon Station 86-VC-411 · Ref. 3",
 "23svkone40": "Copied November 18, 1986 · original in the Daewon Trading safe",
-"22zfmx0hozk": "The ledger open to a spread. The name column is blank.",
+"1eatyacqoz5": "The ledger open to a spread. No names, only code numbers and figures.",
 "1otfomuoqyo": "Si-14",
 "nklspxyv1j": "Butcher",
 "119sl5kzom4": "800,000",
@@ -958,7 +958,7 @@ MG.I18N.put("en", "c11", {
 "k7x5hfidxx": "Forensics photo — the fourth sack with bricks attached",
 "1ibv7jv37ls": "Autopsy room, Euncheon Medical Center — recovered remains under white sheets",
 "qbc6x5fix7": "Evidence photo — the jacket and what was in its pockets",
-"196nvbe7y1w": "Inside Woosung Butcher Shop after the inspection — sawdust floor and chopping block",
+"kzryj7qbe8": "Inside Woosung Butcher Shop during the inspection — the bone saw with a seizure tag, sawdust floor and chopping block",
 "1robn234k39": "Gauge board and current measurement at the Euncheon water gauge station",
 "7us0ukku8l": "Daewon Trading ledger, open to a spread (writing blurred)",
 "17tp9nhttar": "Daewon Trading ledger, open to a spread",

diff --git a/i18n/zh/c11.js b/i18n/zh/c11.js
@@ -114,7 +114,7 @@ MG.I18N.put("zh", "c11", {
 "29svwdzf7sw": "证物86-411-③-2。连信封一起夹在卷宗最后面。",
 "yoxv24mjs1": "摄影部原版底片——青鹤螺钿漆器作坊",
 "25i2ohhj3cv": "1986. 11. 24 拍摄 · 恩川日报摄影部 · 黑白冲印",
-"y29r5l4z8y": "报上只登了从中间裁下的一块，这是那张照片的原版底片放大冲印的。是黑白的，看不出颜色。",
+"1irz9wqmmv4": "同一天摄影部拍的另一张底片（没有登上版面的一张），放大冲印出来的。是黑白的，看不出颜色。",
 "eylhvinewu": "工具挂板——两处挂锯的位置",
 "1wzeni3wddi": "凿子架右边横挂着一把新[[双刃锯|k_saw]]。锯柄上缠的藤条还是白的，贴着价签——“[[大成五金|k_hardware]] 3,800”。正下方还有一块锯子形状、积灰较少的印子。",
 "1eg7ge9bnp5": "墙上的挂历（11月）",
@@ -126,7 +126,7 @@ MG.I18N.put("zh", "c11", {
 "aioo23rdo9": "没做完的螺钿柜",
 "ig4dbwu1x8": "黑漆上嵌着两只鹤。其中一只的翅膀只贴了一半。",
 "19bsf9aq1j4": "一堆锯末袋",
-"td9noywbi6": "三只装着泡桐锯末的白色米袋。最上面那只袋子缝口的布标上透出一个印戳——“11.07-③”。",
+"qgxqg4jn9w": "三只装着泡桐锯末的白色米袋。前面那只袋子缝口的布标上透出一个印戳——“11.07-③”。",
 "1911d4zj1v0": "排水口周围的地面",
 "1iyuooxdxx0": "以排水口为中心，水泥地面褪出了一圈白。别处都被漆和灰染得发黑，只有那一块像是用烧碱水使劲刷过一样。",
 "2flxafsqbt2": "灶口旁的砖堆",
@@ -310,7 +310,7 @@ MG.I18N.put("zh", "c11", {
 "1h5fqxyt2m7": "勘验笔录——宇成肉铺",
 "1o5n0dvbyrb": "恩川警察署 86-重案-411 · 14",
 "1jlhxthdltn": "1986年11月18日19:30～22:10 · 中央市场12号 · 见证人 禹万福之妻",
-"1aio73lxy5m": "勘验后的店内——铺着锯末的地面、砧板、空铁钩。",
+"2elorejt3cy": "勘验中的店内——挂着扣押标签的骨锯、铺着锯末的地面、砧板、空铁钩。",
 "18uzee5n74w": "关上店门、熄灯后，向地面、砧板、排水口、墙面喷洒[[鲁米诺|k_luminol]]溶液，地面几乎全部、砧板周围及排水口出现强烈蓝光反应。",
 "29rjtpyj1s7": "暗室照片——熄灯后的店内地面（30秒曝光）。地面几乎全部泛出蓝光。",
 "2060o7dp01o": "地面：全面反应 · 渗至锯末下方",
@@ -362,7 +362,7 @@ MG.I18N.put("zh", "c11", {
 "bjvk6jl74b": "股骨、肱骨断面上的[[锯痕|k_cutmark]]间距2.5～3mm，锯缝宽1.6mm上下，锯齿分齿大。锯痕弯如弓形，呈现朝一侧拉扯的纹路。",
 "2fk2bkntkhb": "无关节离断痕迹。每根骨头上都有三四道重新下锯的起锯痕相互重叠。",
 "1i5lkb5oph2": "2. 袋内锯末",
-"i6bk8uv0pl": "袋内锯末（体视显微镜，20倍）。",
+"16d9ih62x91": "袋内锯末（体视显微镜下）。",
 "1jfm2f3ls48": "四只袋子里的锯末均为阔叶树，属泡桐类。未混有花旗松、落叶松等针叶树锯末。锯末中有大量闪着虹彩的薄片——系鲍鱼、贝类外壳的[[珍珠层|k_najeon]]薄片，应为研磨加工时产生的碎屑。检出少量漆成分。",
 "1mzhyv11jfm": "3. 袋子",
 "1llopxkcau2": "聚丙烯编织20kg米袋4只。外面印字因水泡和摩擦几乎全部脱落。从其中两只内侧缝口的布标上辨认出[[碾米印戳|k_stamp]]——“11.07-③”。应为碾米厂的碾米日期和碾米机编号。",
@@ -485,7 +485,7 @@ MG.I18N.put("zh", "c11", {
 "1fhsgd6strj": "大元商社总账（11月份副本）",
 "19yntoubkn4": "恩川警察署 86-重案-411 · 参考3",
 "23svkone40": "1986年11月18日复制 · 原件存大元商社保险柜",
-"22zfmx0hozk": "总账摊开的一页。姓名栏是空的。",
+"1eatyacqoz5": "总账摊开的一页。没有名字，只写着编号和数字。",
 "1otfomuoqyo": "市-14",
 "nklspxyv1j": "肉铺",
 "119sl5kzom4": "80万",
@@ -958,7 +958,7 @@ MG.I18N.put("zh", "c11", {
 "k7x5hfidxx": "鉴识照片——坠着砖块的第四只袋子",
 "1ibv7jv37ls": "恩川医疗院解剖室——白布下寻回的遗体",
 "qbc6x5fix7": "证物照片——夹克和口袋里的物品",
-"196nvbe7y1w": "勘验后的宇成肉铺店内——铺锯末的地面和砧板",
+"kzryj7qbe8": "勘验中的宇成肉铺店内——挂着扣押标签的骨锯、铺锯末的地面和砧板",
 "1robn234k39": "恩川水位观测站前的水尺与流速测量",
 "7us0ukku8l": "大元商社总账摊开的一页（字迹模糊）",
 "17tp9nhttar": "大元商社总账摊开的一页",

diff --git a/img/manifest.js b/img/manifest.js
@@ -209,13 +209,13 @@ window.MG.images = {
   "c11/ledger_page": "img/c11/ledger_page.webp?v=bc81fd93",
   "c11/news_bridge": "img/c11/news_bridge.webp?v=863d9ae9",
   "c11/news_divers": "img/c11/news_divers.webp?v=77e42f2a",
-  "c11/news_reeds": "img/c11/news_reeds.webp?v=85f3219e",
+  "c11/news_reeds": "img/c11/news_reeds.webp?v=5df30a6d",
   "c11/news_shop": "img/c11/news_shop.webp?v=9da5449d",
   "c11/news_workshop": "img/c11/news_workshop.webp?v=7d2b2172",
   "c11/nfs_nacre": "img/c11/nfs_nacre.webp?v=8a346060",
   "c11/occ_reeds": "img/c11/occ_reeds.webp?v=1f91f230",
-  "c11/photo_sack": "img/c11/photo_sack.webp?v=0cc3afc0",
-  "c11/ph_lumi": "img/c11/ph_lumi.webp?v=ac7ae0a0",
+  "c11/photo_sack": "img/c11/photo_sack.webp?v=68798c02",
+  "c11/ph_lumi": "img/c11/ph_lumi.webp?v=44e79122",
   "c11/ph_match": "img/c11/ph_match.webp?v=48c982f4",
   "c11/ph_print": "img/c11/ph_print.webp?v=caa2d57e",
   "c11/workshop_floor": "img/c11/workshop_floor.webp?v=d83f9785",

diff --git a/css/skins.css b/css/skins.css
@@ -147,6 +147,7 @@
 .case-view[data-frame="laptop"] .skin-ledger{background-color:#f4f3ee}
 .case-view[data-frame="laptop"] .skin-ledger .b-tbl table{font:12.5px/1.5 var(--f-mono)}
 .case-view[data-frame="laptop"] .skin-ledger .b-tbl td{border-right:0;border-bottom:1px solid rgba(0,0,0,.12)}
+@container stage (max-width:520px){.case-view:not([data-frame="laptop"]) .skin-ledger:not(.printed) .b-tbl td{font-size:15.5px;line-height:1.35}} /* 좁은 화면: 붓글씨 장부 표는 12.5px 로 줄면 읽히지 않는다 */
 .case-view[data-frame="laptop"] .skin-ledger .b-tbl th{background:rgba(0,0,0,.06)}
 .doc.typed .b-tbl table{font:13px/1.55 var(--f-type)}
 .doc.typed .b-tbl td{border-bottom-style:dotted;border-bottom-color:rgba(0,0,0,.28)}
